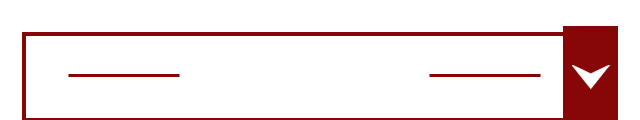
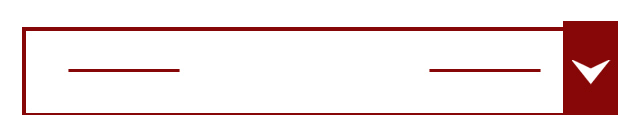
Fixes alignment of ExpandableCell art assets, and fixes the order of subclasses when the NSObject subclasses selector is called

diff --git a/ShinyComboRenderer.m b/ShinyComboRenderer.m
@@ -1,0 +1,64 @@
+//
+//  ShinyComboRenderer.m
+//  AvocadoTest1
+//
+//  Created by Jake on 12-03-30.
+//  Copyright (c) 2012 __MyCompanyName__. All rights reserved.
+//
+
+#import "ShinyComboRenderer.h"
+#import "Combo.h"
+#import "IntegerInputCellData.h"
+#import "ItemGroupSectionHeaderView.h"
+#import "NumberOfCombosView.h"
+#import "ItemGroup.h"
+
+@implementation ShinyComboRenderer
+
+
+-(id)initWithCombo:(Combo *)aCombo
+{
+    self = [super init];
+    
+    if(self)
+    {
+        theCombo = aCombo;
+        
+        sectionNames = [[NSMutableArray alloc] init];
+        listData = [[NSMutableArray alloc] init];
+        
+        [sectionNames addObject:@"Combo Quantity"];
+        NSMutableArray *numberOfCombosSectionContents = [[NSMutableArray alloc] init];
+        
+        [numberOfCombosSectionContents addObject:[NumberOfCombosView new]];
+        IntegerInputCellData *newCell = [[IntegerInputCellData alloc] init];
+        [newCell setNumber:[theCombo numberOfCombos]];
+        [newCell setLowerBound:[NSNumber numberWithInt:1]];
+        [newCell setUpperBound:[NSNumber numberWithInt:100]];
+        [numberOfCombosSectionContents addObject:newCell];
+        
+        [listData addObject:numberOfCombosSectionContents];
+        
+        if ([[theCombo listOfItemGroups] count] != 0) {
+            [sectionNames addObject:@"Item Groups"];
+            NSMutableArray *itemGroupSectionContents = [[NSMutableArray alloc] init];
+            
+            [itemGroupSectionContents addObject:[ItemGroupSectionHeaderView new]];
+            
+            //Starts with all of the options in the open position.
+            for (ItemGroup *eachItemGroup in [theCombo listOfItemGroups]) {
+                NSMutableDictionary *newDictionary = [[NSMutableDictionary alloc] init];
+                [newDictionary setObject:eachItemGroup forKey:@"closedItemGroup"];
+                [itemGroupSectionContents addObject:newDictionary];
+            }
+            
+            [listData addObject:itemGroupSectionContents];
+        }
+        
+    }
+    
+    return self;
+}
+
+
+@end

diff --git a/ItemGroupSectionHeaderView.m b/ItemGroupSectionHeaderView.m
@@ -1,0 +1,35 @@
+//
+//  ItemGroupSectionHeaderView.m
+//  AvocadoTest1
+//
+//  Created by Jake on 12-03-30.
+//  Copyright (c) 2012 __MyCompanyName__. All rights reserved.
+//
+
+#import "ItemGroupSectionHeaderView.h"
+
+@implementation ItemGroupSectionHeaderView
+
+- (id)initWithFrame:(CGRect)frame
+{
+    self = [super initWithFrame:frame];
+    if (self) {
+        headerImage = [[UIImageView alloc] initWithImage:[UIImage imageNamed:@"ListHeader.png"]];
+        [self setFrame:[headerImage frame]];
+        headerLabel = [[UILabel alloc] init];
+        [headerLabel setText:@"Combo Components"];
+        [headerLabel setFrame:CGRectMake(46, 28, 196, 21)];
+        [headerLabel setFont:[Utilities fravicHeadingFont]];
+        [headerLabel setTextAlignment:UITextAlignmentLeft];
+        [headerLabel setTextColor:[Utilities fravicDarkRedColor]];
+        [headerLabel setBackgroundColor:[UIColor clearColor]];
+        
+        [self addSubview:headerLabel];
+        [self addSubview:headerImage];
+        [self sendSubviewToBack:headerImage];
+        
+    }
+    return self;
+}
+
+@end

diff --git a/NumberOfCombosView.m b/NumberOfCombosView.m
@@ -1,0 +1,35 @@
+//
+//  NumberOfCombosView.m
+//  AvocadoTest1
+//
+//  Created by Jake on 12-03-30.
+//  Copyright (c) 2012 __MyCompanyName__. All rights reserved.
+//
+
+#import "NumberOfCombosView.h"
+
+@implementation NumberOfCombosView
+
+- (id)initWithFrame:(CGRect)frame
+{
+self = [super initWithFrame:frame];
+if (self) {
+    headerImage = [[UIImageView alloc] initWithImage:[UIImage imageNamed:@"ListHeader.png"]];
+    [self setFrame:[headerImage frame]];
+    headerLabel = [[UILabel alloc] init];
+    [headerLabel setText:@"Combo Quantity"];
+    [headerLabel setFrame:CGRectMake(46, 28, 196, 21)];
+    [headerLabel setFont:[Utilities fravicHeadingFont]];
+    [headerLabel setTextAlignment:UITextAlignmentLeft];
+    [headerLabel setTextColor:[Utilities fravicDarkRedColor]];
+    [headerLabel setBackgroundColor:[UIColor clearColor]];
+    
+    [self addSubview:headerLabel];
+    [self addSubview:headerImage];
+    [self sendSubviewToBack:headerImage];
+    
+}
+return self;
+}
+
+@end

diff --git a/NSObject+SubclassEnumeration.m b/NSObject+SubclassEnumeration.m
@@ -34,6 +34,7 @@
                         NSMutableArray* subclassList = [classMap objectForKey:superClass];
                         if(!subclassList){
                             subclassList = [NSMutableArray array];
+                            
                             [classMap setObject:subclassList forKey:superClass];
                         }
                         [subclassList addObject:current[0]];
@@ -45,6 +46,10 @@
             initialized = YES;
         }
     }
+    //This just ensures that regardless of platform, the list will appear in the same order every time.
+    NSSortDescriptor *aDescriptor = [[NSSortDescriptor alloc] initWithKey:@"description" ascending:YES];
+    
+    [[classMap objectForKey:thisClass] sortUsingDescriptors:[NSArray arrayWithObject:aDescriptor]];
     
     return [classMap objectForKey:thisClass];
 }

diff --git a/ShinyComboView.m b/ShinyComboView.m
@@ -1,0 +1,36 @@
+//
+//  ShinyComboView.m
+//  AvocadoTest1
+//
+//  Created by Jake on 12-03-30.
+//  Copyright (c) 2012 __MyCompanyName__. All rights reserved.
+//
+
+#import "ShinyComboView.h"
+
+@implementation ShinyComboView
+
+@synthesize comboTable;
+
+-(id)init
+{
+    self = [super initWithFrame:[self frame]];
+    if (self) {
+        comboTable = [[UITableView alloc] initWithFrame:[self frame] 
+                                                 style:UITableViewStylePlain];
+        [comboTable setSeparatorStyle:UITableViewCellSeparatorStyleNone];
+        
+        [comboTable setBackgroundColor:[UIColor whiteColor]];
+        
+        [self addSubview:comboTable];
+    }
+    return self;
+    
+}
+
+-(void)layoutSubviews
+{
+    [comboTable setFrame:[self frame]];
+}
+
+@end

diff --git a/ExpandableCell.m b/ExpandableCell.m
@@ -20,7 +20,7 @@
         colapsedImage = [[UIImageView alloc] initWithImage:[UIImage imageNamed:@"ColapsedMenuDropdown.png"]];
         expandedImage = [[UIImageView alloc] initWithImage:[UIImage imageNamed:@"ExpandedMenuDropdown.png"]];
         
-        nameLabel = [[UILabel alloc] initWithFrame:CGRectMake(93, 26, 120, 21)];
+        nameLabel = [[UILabel alloc] initWithFrame:CGRectMake(93, 24, 120, 21)];
         [nameLabel setFont:[Utilities fravicHeadingFont]];
         [nameLabel setTextAlignment:UITextAlignmentCenter];
         [nameLabel setTextColor:[UIColor blackColor]];

diff --git a/ShinyFullButtonCell.m b/ShinyFullButtonCell.m
@@ -10,7 +10,12 @@
 
 @implementation ShinyFullButtonCell
 
-static float cellBorderSize = 10.0f;
+static float cellBorderSize;
+
++(void)initialize
+{
+    cellBorderSize = 10.0f;
+}
 
 +(BOOL) canDisplayData:(id)data
 {
@@ -46,6 +51,7 @@ static float cellBorderSize = 10.0f;
 
 -(void) updateCell
 {
+    
     [theButton setFrame:CGRectMake((320 - [theButton frame].size.width)/2, 
                                   cellBorderSize, 
                                   [theButton frame].size.width, 

diff --git a/Menu.m b/Menu.m
@@ -18,8 +18,10 @@
 {
     self = [super init];
     
-    submenuList = [[NSMutableArray alloc] initWithCapacity:0];
-    comboList = [[NSMutableArray alloc] initWithCapacity:0];    
+    if (self) {
+        submenuList = [[NSMutableArray alloc] initWithCapacity:0];
+        comboList = [[NSMutableArray alloc] initWithCapacity:0];  
+    }  
     
     return self;
 }

diff --git a/ShinyComboRenderer.h b/ShinyComboRenderer.h
@@ -1,0 +1,19 @@
+//
+//  ShinyComboRenderer.h
+//  AvocadoTest1
+//
+//  Created by Jake on 12-03-30.
+//  Copyright (c) 2012 __MyCompanyName__. All rights reserved.
+//
+
+#import "ListRenderer.h"
+@class Combo;
+
+@interface ShinyComboRenderer : ListRenderer
+{
+    Combo *theCombo;
+}
+
+-(id) initWithCombo:(Combo *) aCombo;
+
+@end

diff --git a/ItemGroupSectionHeaderView.h b/ItemGroupSectionHeaderView.h
@@ -1,0 +1,17 @@
+//
+//  ItemGroupSectionHeaderView.h
+//  AvocadoTest1
+//
+//  Created by Jake on 12-03-30.
+//  Copyright (c) 2012 __MyCompanyName__. All rights reserved.
+//
+
+#import <UIKit/UIKit.h>
+
+@interface ItemGroupSectionHeaderView : UIView
+{
+    UIImageView *headerImage;
+    UILabel *headerLabel;
+}
+
+@end

diff --git a/ShinyComboView.h b/ShinyComboView.h
@@ -1,0 +1,18 @@
+//
+//  ShinyComboView.h
+//  AvocadoTest1
+//
+//  Created by Jake on 12-03-30.
+//  Copyright (c) 2012 __MyCompanyName__. All rights reserved.
+//
+
+#import <UIKit/UIKit.h>
+
+@interface ShinyComboView : UIView
+{
+    UITableView *comboTable;
+}
+
+@property (retain) UITableView *comboTable;
+
+@end

diff --git a/ViewCell.m b/ViewCell.m
@@ -13,7 +13,13 @@
 +(BOOL) canDisplayData:(id)data
 {
     //Returns true iff the data passed in is meant to be displayed by this cell.
+    
+    if ([data isKindOfClass:[UIButton class]]) {
+        return NO;
+    }
+    
     return [data isKindOfClass:[UIView class]];
+    
 }
 
 +(NSString *) cellIdentifier
